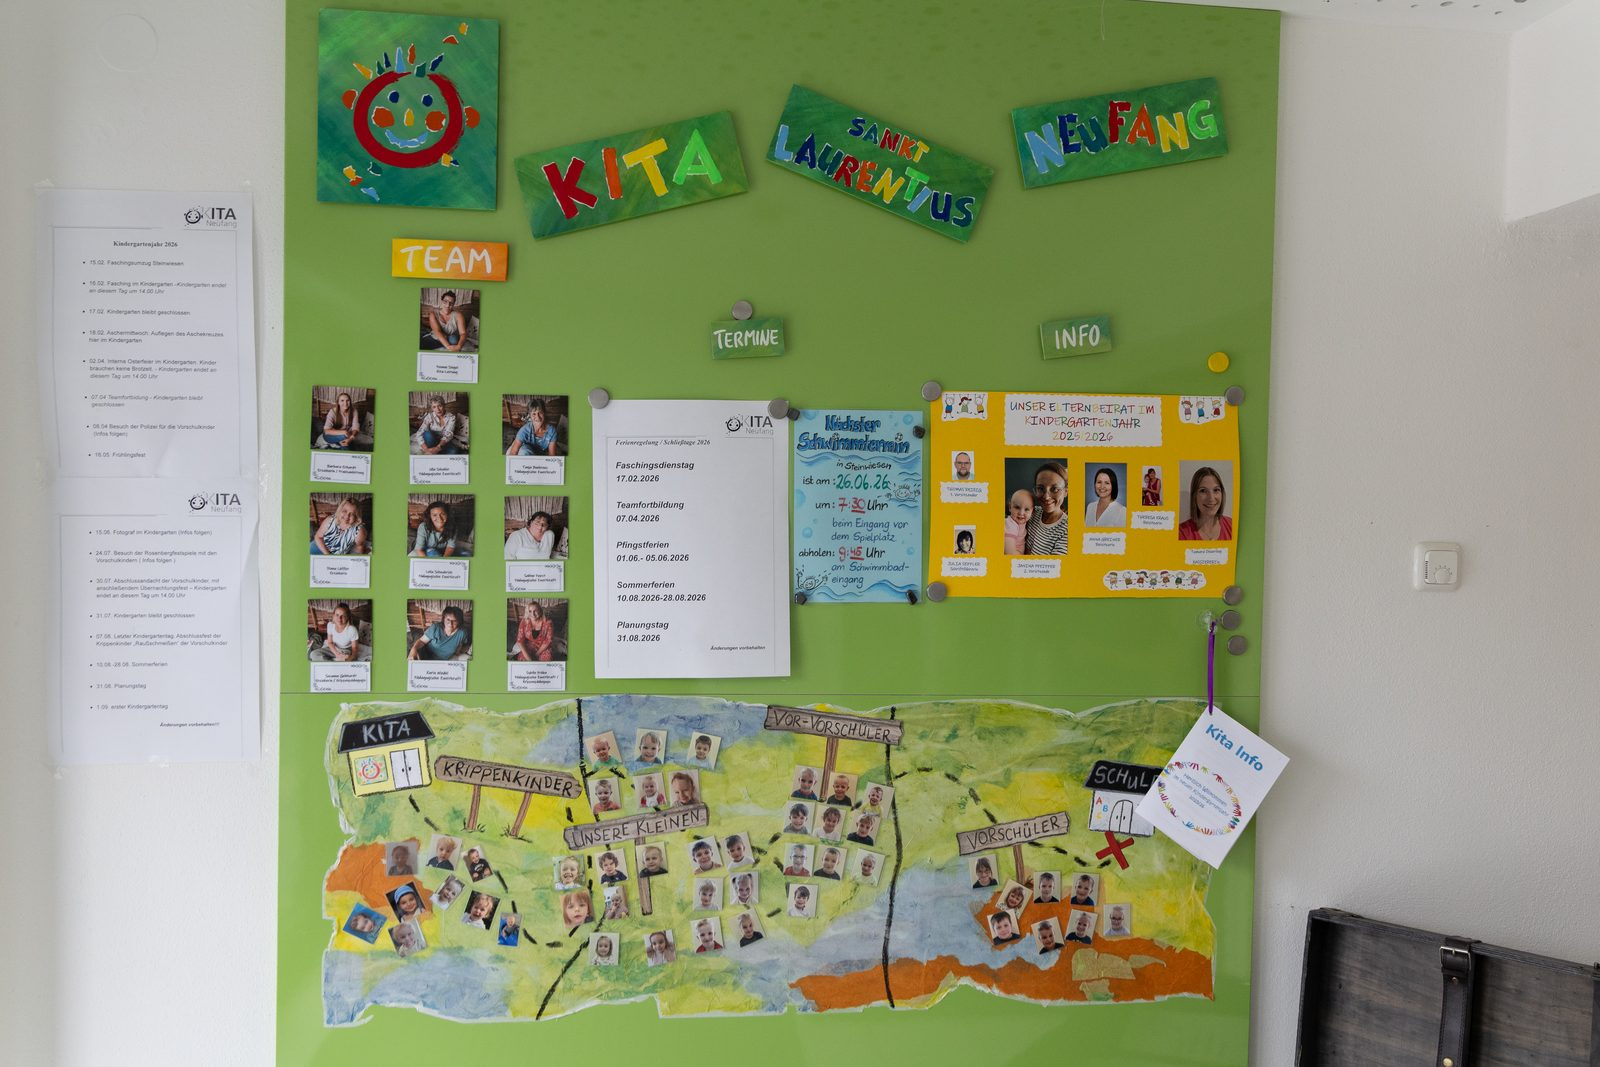
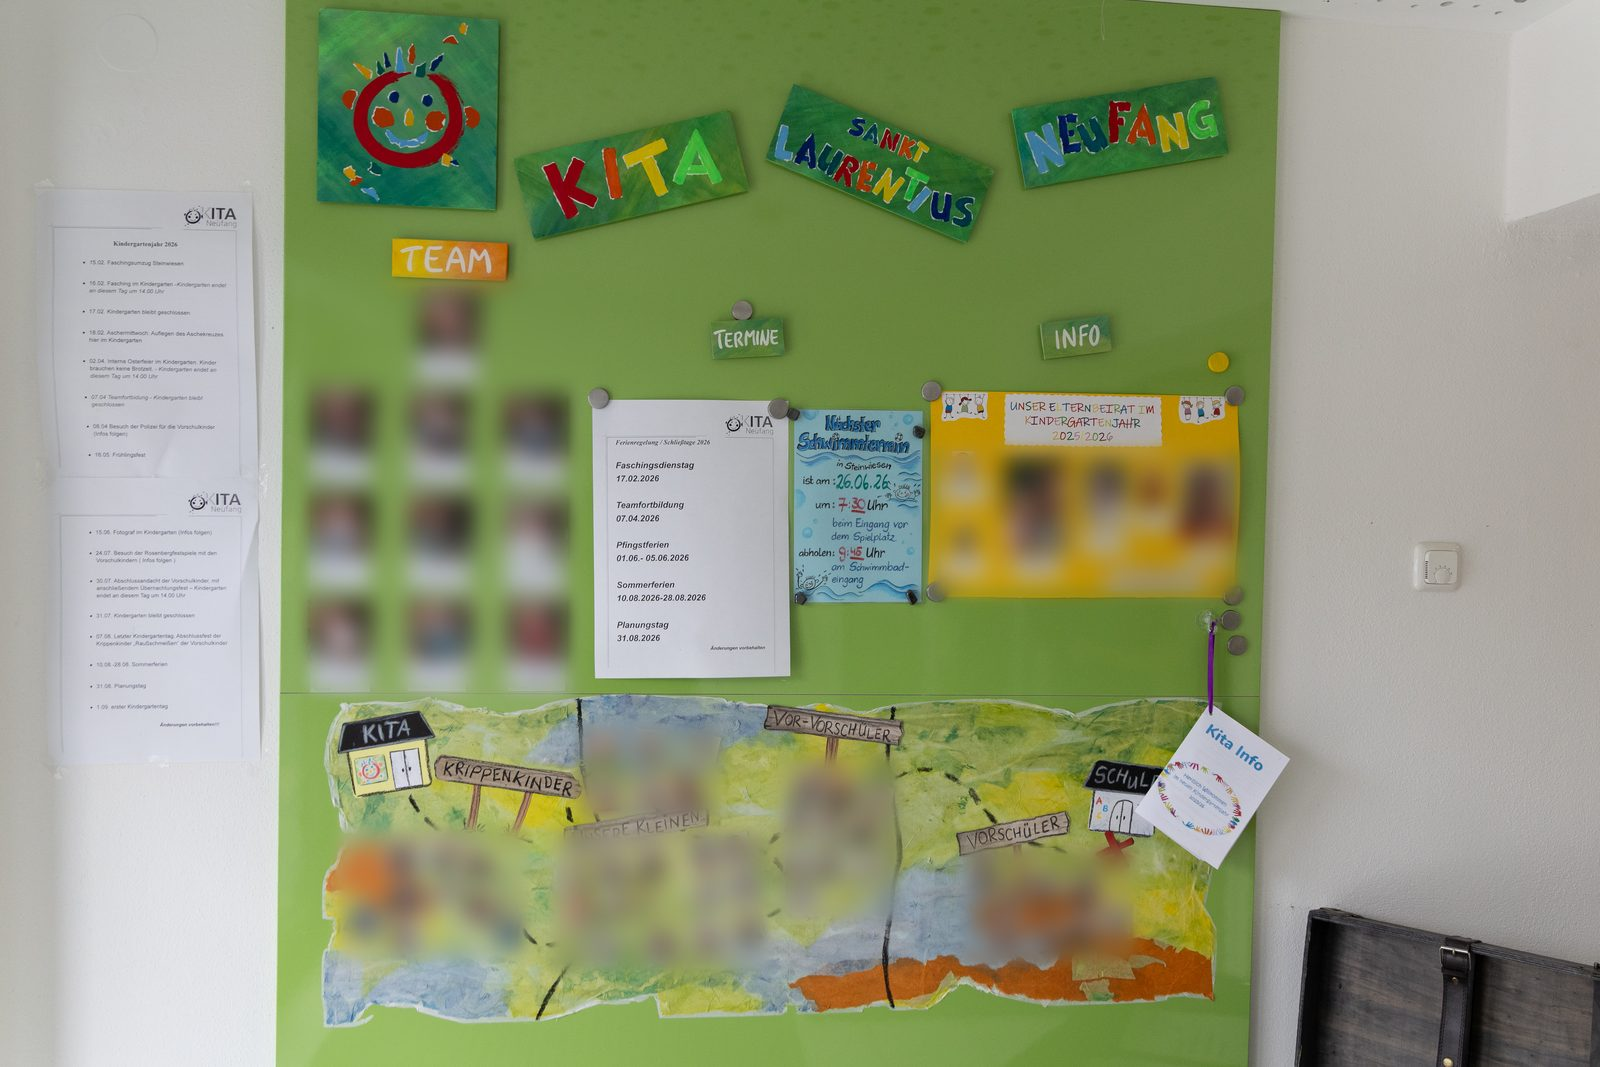
Entwurf Fotos: Gesichter und Namen auf dem Foto der Infowand unkenntlich gemacht (Team, Elternbeirat, Kinderfotos)

diff --git a/tools/galerie_aufbereiten.py b/tools/galerie_aufbereiten.py
@@ -7,12 +7,13 @@ Reihenfolge: das Bild mit dem Präfix "1_" wird 01.jpg (Titelbild der Kachel bzw
 Vorschaubild), danach die übrigen nach Dateinamen. Der Ordner "UnserKindergarten" wird
 aufgeteilt: Gebäude-Fotos → aussen, der Rest → weitere.
 Die Zielordner werden vorher geleert. Lange Kante 1600 px, JPEG-Qualität 82.
+Gesichter und Namen auf Fotos (z. B. Infowand) werden über VERWISCHEN unkenntlich gemacht.
 
 Aufruf:  python tools/galerie_aufbereiten.py
 """
 from pathlib import Path
 
-from PIL import Image, ImageOps
+from PIL import Image, ImageDraw, ImageFilter, ImageOps
 
 ROOT = Path(__file__).resolve().parent.parent
 ROH = ROOT / "bilder-roh" / "galerie"
@@ -30,6 +31,31 @@ BEREICHE = {
     "goldtaler": ("Goldtalergruppe", None, None),
     "perlen": ("Perlengruppe", None, None),
 }
+
+# Bereiche, die verwischt werden (Gesichter, Namensschilder): Rohdatei → Rechtecke (x1, y1, x2, y2)
+# in Pixeln des auf 1600 px Breite verkleinerten Bildes
+VERWISCHEN = {
+    "6R7A6547.jpg": [  # Infowand
+        (300, 280, 576, 696),    # Team-Fotos mit Namen
+        (932, 446, 1240, 598),   # Elternbeirat: Fotos und Namen
+        (336, 826, 528, 962),    # Landkarte: Krippenkinder
+        (578, 722, 724, 818),    # Landkarte: Unsere Kleinen oben
+        (548, 828, 770, 972),    # Landkarte: Unsere Kleinen
+        (776, 756, 900, 922),    # Landkarte: Vor-Vorschüler
+        (962, 846, 1136, 962),   # Landkarte: Vorschüler
+    ],
+}
+
+
+def verwischen(im, rechtecke):
+    f = im.width / 1600
+    maske = Image.new("L", im.size, 0)
+    zeichnen = ImageDraw.Draw(maske)
+    for x1, y1, x2, y2 in rechtecke:
+        zeichnen.rounded_rectangle([x1 * f, y1 * f, x2 * f, y2 * f], radius=12 * f, fill=255)
+    maske = maske.filter(ImageFilter.GaussianBlur(6 * f))  # weicher Rand
+    weich = im.filter(ImageFilter.GaussianBlur(11 * f))
+    return Image.composite(weich, im, maske)
 
 
 def sortiert(dateien, reihenfolge):
@@ -50,6 +76,8 @@ def main():
         for i, quelle in enumerate(sortiert(dateien, reihenfolge), 1):
             im = ImageOps.exif_transpose(Image.open(quelle)).convert("RGB")
             im.thumbnail((KANTE, KANTE), Image.LANCZOS)
+            if quelle.name in VERWISCHEN:
+                im = verwischen(im, VERWISCHEN[quelle.name])
             out = ziel / f"{i:02d}.jpg"
             im.save(out, quality=82, optimize=True, progressive=True)
             print(f"{key}/{out.name} <- {ordner}/{quelle.name}  {im.size[0]}x{im.size[1]}")
